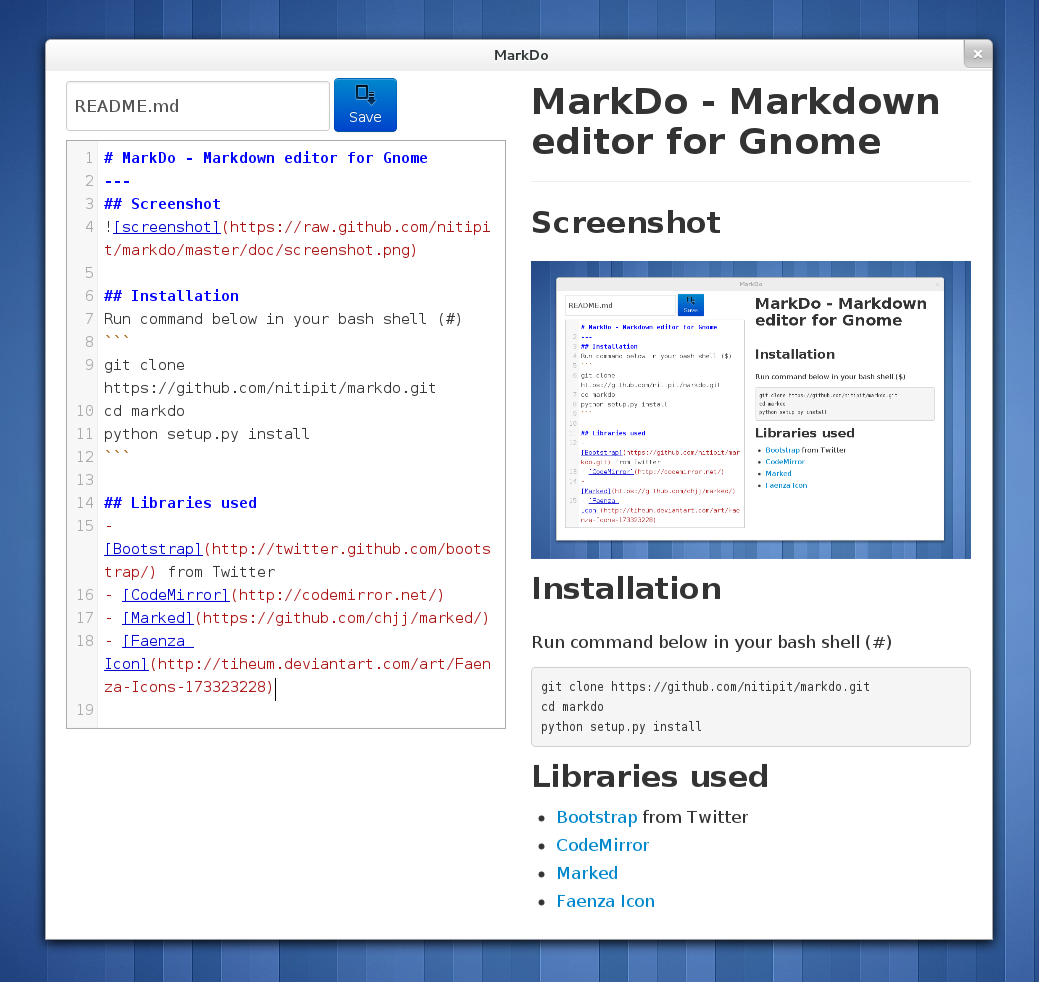
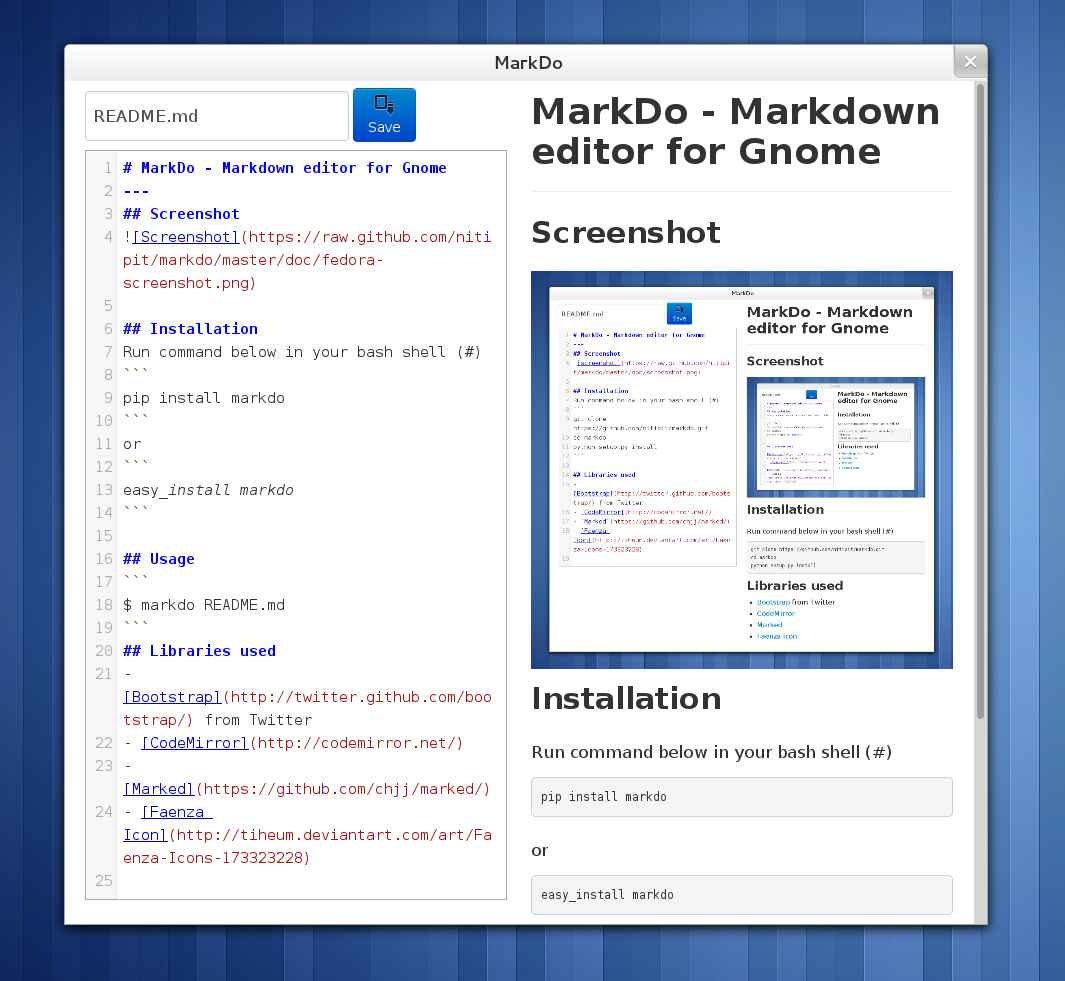
Update documentation

diff --git a/README.md b/README.md
@@ -6,10 +6,13 @@
 ## Installation
 Run command below in your bash shell (#)
 ```
-git clone https://github.com/nitipit/markdo.git
-cd markdo
-python setup.py install
+pip install markdo
 ```
+or
+```
+easy_install markdo
+```
+
 ## Usage
 ```
 $ markdo README.md
